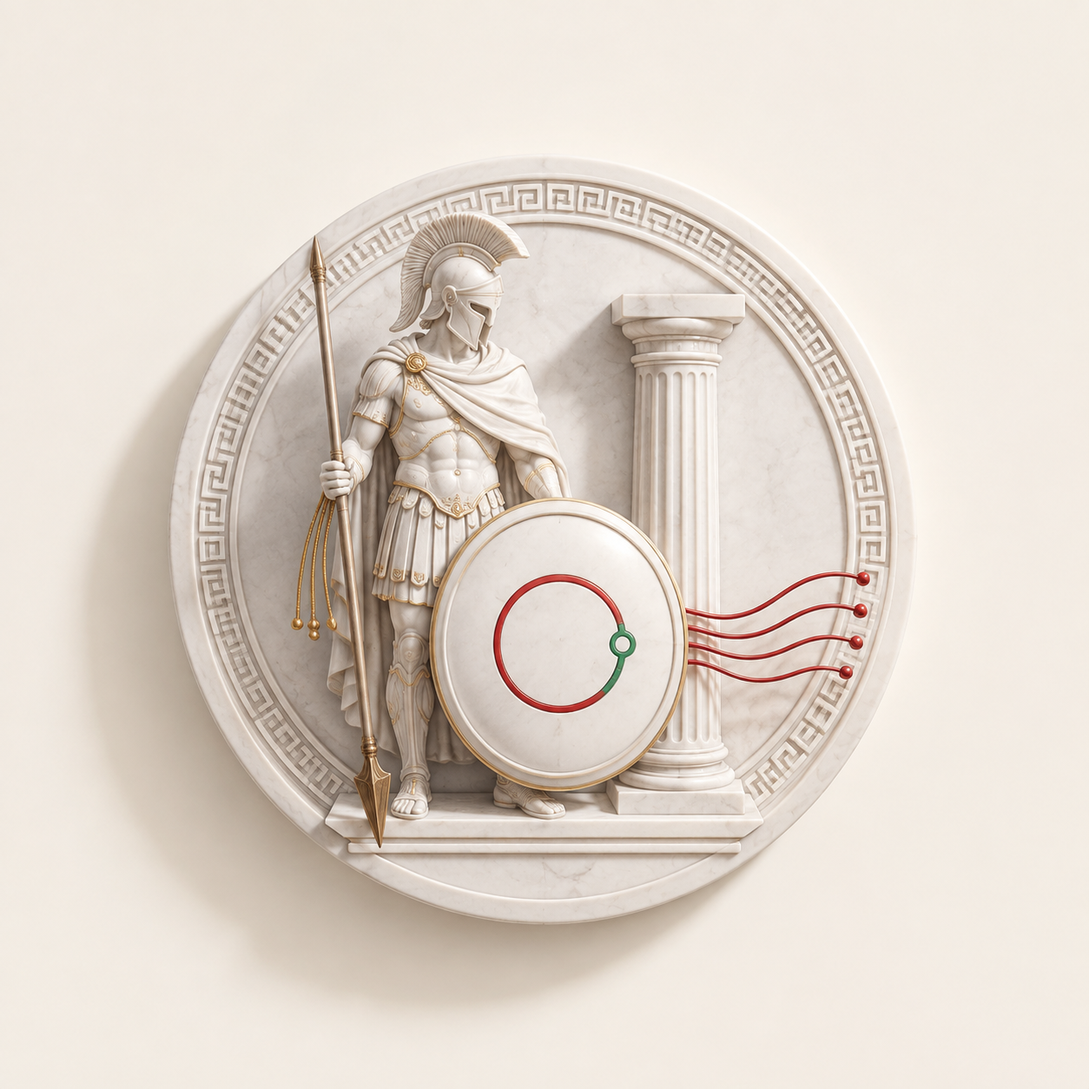
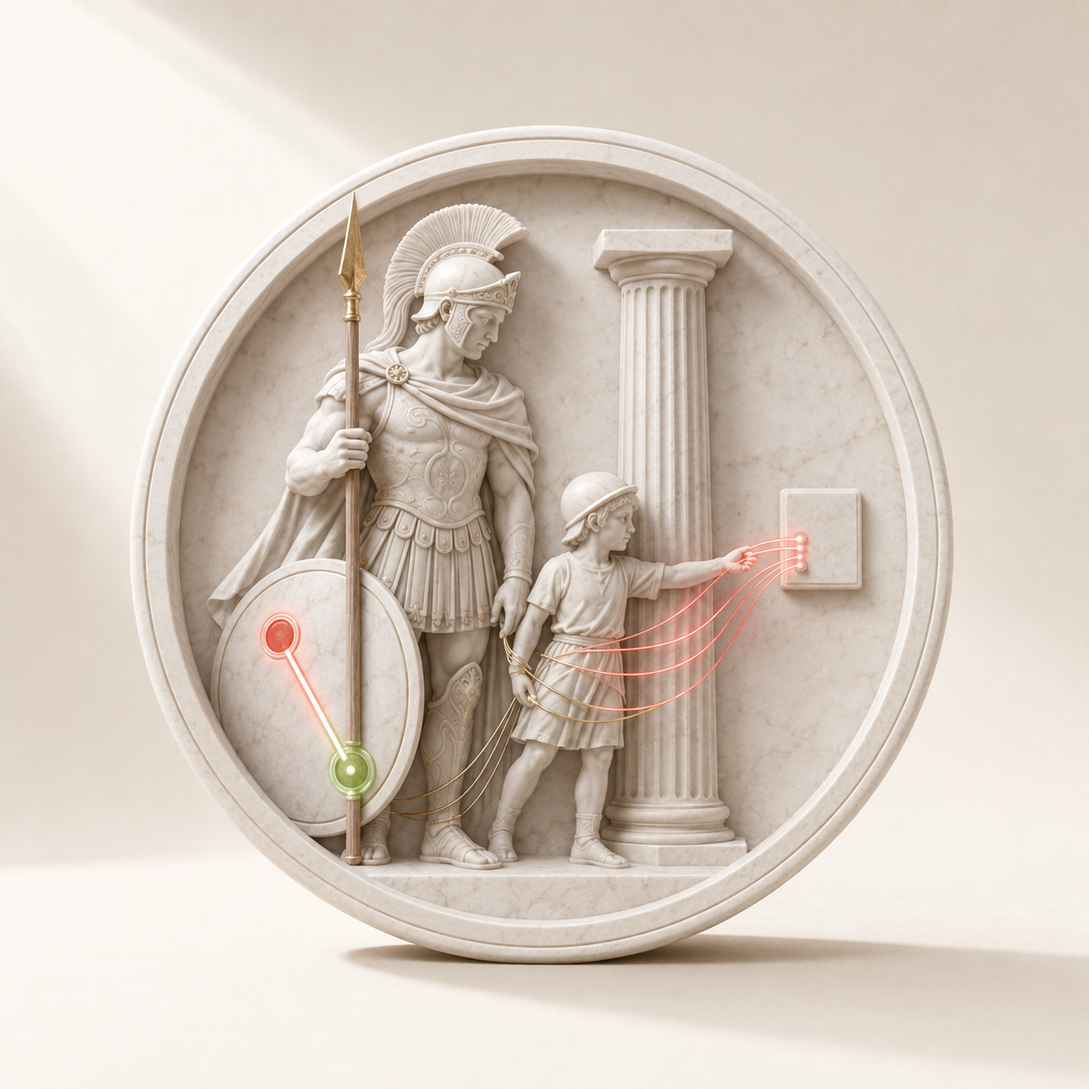
fix: Ares and his son Deimoz, upright spear, glowing threads, plain war-on-code framing

diff --git a/src/seat-adapter.ts b/src/seat-adapter.ts
@@ -21,8 +21,8 @@ export class SeatUnavailable extends Error {}
 
 /**
  * Собирает дескриптор сиденья Ареса из каталога arez. Бросает, если каталог не держит инварианты - на
- * сиденье Ареса не встаёт полу-собранный бог. deimos среди навыков, но НЕ как имя бога: сиденье - ares,
- * не deimos (LIM-03: deimos на сиденье Ареса ломает assertDaimonAllowed).
+ * сиденье Ареса не встаёт полу-собранный бог. deimoz среди навыков, но НЕ как имя бога: сиденье - ares,
+ * не deimoz (LIM-03: deimoz на сиденье Ареса ломает assertDaimonAllowed).
  */
 export function aresSeat(root: string): AresSeat {
   const cat = loadCatalog(root, false);

diff --git a/src/seat-adapter.test.ts b/src/seat-adapter.test.ts
@@ -15,12 +15,12 @@ test("aresSeat: дескриптор сиденья из каталога дом
   assert.equal(seat.minTier, "top");
   assert.deepEqual(seat.daimons, []); // LIM-01
   assert.equal(seat.skills.length, 6); // REQ-19
-  assert.ok(seat.skills.includes("deimos"));
+  assert.ok(seat.skills.includes("deimoz"));
 });
 
-test("сиденье - ares, а не deimos: имя бога не совпадает с навыком-оркестратором (LIM-03)", () => {
+test("сиденье - ares, а не deimoz: имя бога не совпадает с навыком-оркестратором (LIM-03)", () => {
   const seat = aresSeat(ROOT);
-  assert.notEqual(seat.god as string, "deimos");
+  assert.notEqual(seat.god as string, "deimoz");
 });
 
 test("полу-собранный каталог -> SeatUnavailable, на сиденье не встаёт", () => {

diff --git a/src/phase-a.ts b/src/phase-a.ts
@@ -55,7 +55,7 @@ export type Exploit = (hit: ReconHit) => Attempt;
 export type Prove = (attempt: Attempt) => Proof;
 
 /**
- * Оркестрирует сканеры в exit-код одной кампании. Сканеры идут В ПОРЯДКЕ КАТАЛОГА (deimos первым - он и есть
+ * Оркестрирует сканеры в exit-код одной кампании. Сканеры идут В ПОРЯДКЕ КАТАЛОГА (deimoz первым - он и есть
  * оркестратор). Каждый claimed-эксплойт ОБЯЗАН пройти observed-RED, иначе кампания краснеет:
  *   - незапускаемый claim -> отклонён как теория (LIM-09);
  *   - полый тест (зелёный до фикса) -> отклонён как театр (LIM-08);

diff --git a/src/catalog.ts b/src/catalog.ts
@@ -112,7 +112,7 @@ export function loadCatalog(root: string, playbookMustExist = true): CatalogResu
         }
       }
       // Деймос - оркестратор цепочки, без него шесть разрозненных сканеров, а не Деймос (REQ-28).
-      if (!names.has("deimos")) problems.push(`нет оркестратора deimos среди сканеров`);
+      if (!names.has("deimoz")) problems.push(`нет оркестратора deimoz среди сканеров`);
     }
   }
 

diff --git a/README.ru.md b/README.ru.md
@@ -6,7 +6,7 @@
 
 [![License](https://img.shields.io/badge/license-Apache--2.0-blue.svg)](LICENSE) [![Stars](https://img.shields.io/github/stars/zarubinvibe/arez?style=flat&color=C9A87A)](https://github.com/zarubinvibe/arez/stargazers) [![Status](https://img.shields.io/badge/status-working-brightgreen.svg)](https://github.com/zarubinvibe/arez) [![Olympuz](https://img.shields.io/badge/olympuz-family-B8D6EA.svg)](https://github.com/zarubinvibe/athena#olympuz-family)
 
-<p align="center"><img src="docs/assets/pantheon/hero.png" alt="Арес в белом мраморе у классической колонны: гребенчатый шлем, копье острием вниз в покое и круглый щит, на котором одна линия прошла путь от красного к зеленому. Чистые красные нити уносят доказанную находку наружу; приглушенно-золотые нити он держит близко в руке." width="100%"></p>
+<p align="center"><img src="docs/assets/pantheon/hero.png" alt="Арес в белом мраморе у классической колонны: гребенчатый шлем, копье вертикально острием в небо и круглый щит на руке. На щите одна линия идет от красного к зеленому. Чистые красные нити уносят доказанную находку наружу; приглушенно-золотые нити он держит близко." width="100%"></p>
 
 <!-- owner-welcome:start -->
 
@@ -37,7 +37,7 @@
 
 Arez это Арес, бог красной команды семьи Olympuz, вырезанный в отдельный инструмент. Он ведет настоящую security-кампанию против цели. Он размечает поверхность, запускает эксплойт и засчитывает находку только когда тест на глазах покраснел на дырявом коде и позеленел после фикса.
 
-Эта регрессия потом живет в твоем гейте навсегда. Это полный нативный Деймос, фазы A-D, с нулем внешних зависимостей. Живую цель он бьет только на 127.0.0.1, под своей песочницей, и наружу с машины не выходит.
+Эта регрессия потом живет в твоем гейте навсегда. Арес воюет с твоим кодом, чтобы найти его изъяны и починить их. Он воюет не один. Деймоз, его сын, ужас, что въезжал с ним в каждую битву, это движок: он ведет кампанию и сводит сканеры в один вердикт. Атакует, доказывает каждую дыру запуском эксплойта и запирает фикс регрессией. Ноль внешних зависимостей. Живую цель он бьет только на 127.0.0.1, под своей песочницей.
 
 ## Зачем это нужно
 
@@ -546,7 +546,7 @@ claude   # or: codex
 
 ## Ограничения
 
-Работает: полный нативный Деймос A-D, ядро анти-театра, doctor вендоренного ядра и сквозной приемочный сценарий проходят гейт. Впереди: живой seat-adapter при сборке роя Olympuz и переносимая песочница, чтобы живая цель поднималась не только на macOS.
+Работает: полный атакующий конвейер, ядро анти-театра, doctor вендоренного ядра и сквозной приемочный сценарий проходят гейт. Впереди: живой seat-adapter при сборке роя Olympuz и переносимая песочница, чтобы живая цель поднималась не только на macOS.
 
 - О
 - д
@@ -872,7 +872,7 @@ claude   # or: codex
 - ь
 - .
 
-`docs/MASTER-PLAN.md` секвенсит фазы Деймоса A-D по зависимости. `docs/ONBOARDING.md` проводит первую установку по шагам. `AGENTS.md` держит доктрину и инварианты. `SECURITY.md` держит модель безопасности. `tests/CORPUS.md` называет каждую пробу.
+`docs/MASTER-PLAN.md` секвенсит четыре стадии атаки по зависимости. `docs/ONBOARDING.md` проводит первую установку по шагам. `AGENTS.md` держит доктрину и инварианты. `SECURITY.md` держит модель безопасности. `tests/CORPUS.md` называет каждую пробу.
 
 ## Звезда и вклад
 

diff --git a/README.md b/README.md
@@ -6,7 +6,7 @@ A red team that proves the hole by running it and locks it with a red-to-green r
 
 [![License](https://img.shields.io/badge/license-Apache--2.0-blue.svg)](LICENSE) [![Stars](https://img.shields.io/github/stars/zarubinvibe/arez?style=flat&color=C9A87A)](https://github.com/zarubinvibe/arez/stargazers) [![Status](https://img.shields.io/badge/status-working-brightgreen.svg)](https://github.com/zarubinvibe/arez) [![Olympuz](https://img.shields.io/badge/olympuz-family-B8D6EA.svg)](https://github.com/zarubinvibe/athena#olympuz-family)
 
-<p align="center"><img src="docs/assets/pantheon/hero.png" alt="Ares in white marble beside the classical column: a crested helmet, a spear held point-down at rest, and a round shield whose face carries one line that went from red to green. Clean red threads carry the proven finding outward; muted-gold threads stay held close in his hand." width="100%"></p>
+<p align="center"><img src="docs/assets/pantheon/hero.png" alt="Ares in white marble beside the classical column: a crested helmet, an upright spear with its blade to the sky, and a round shield held on his arm. On the shield face one line runs from red to green. Clean red threads carry the proven finding outward; muted-gold threads stay held close." width="100%"></p>
 
 <!-- owner-welcome:start -->
 
@@ -37,7 +37,7 @@ A red team that proves the hole by running it and locks it with a red-to-green r
 
 Arez is Ares, the red-team god of the Olympuz family, cut out as a standalone tool. It runs a real security campaign against a target. It maps the surface, runs the exploit, and counts a finding only after a test was watched going red on the broken code and green after the fix.
 
-The regression then lives in your own gate for good. It is the full native Deimos, phases A through D, with zero external dependencies. It hits a live target only on 127.0.0.1, under its own sandbox, and never reaches off your machine.
+The regression then lives in your own gate for good. Ares wages war on your code to find its flaws and fix them. He does not fight alone. Deimoz, his son, the dread that rode into every battle beside him, is the engine that runs the campaign and chains its scanners into one verdict. It attacks, proves each hole by running the exploit, and locks the fix with a regression. Zero external dependencies. It hits a live target only on 127.0.0.1, under its own sandbox.
 
 ## Why It Helps
 
@@ -536,7 +536,7 @@ The gate runs the tests in a separate process the attacking agent cannot reach, 
 
 ## Limits
 
-Working: the full native Deimos A to D, the anti-theater core, the vendored-core doctor, and the end-to-end acceptance scenario all pass the gate. Ahead: the live seat-adapter when the Olympuz swarm is assembled, and a portable sandbox so the live target runs beyond macOS.
+Working: the full attack pipeline, the anti-theater core, the vendored-core doctor, and the end-to-end acceptance scenario all pass the gate. Ahead: the live seat-adapter when the Olympuz swarm is assembled, and a portable sandbox so the live target runs beyond macOS.
 
 - O
 - n
@@ -873,7 +873,7 @@ Working: the full native Deimos A to D, the anti-theater core, the vendored-core
 - y
 - .
 
-`docs/MASTER-PLAN.md` sequences the Deimos phases A to D by dependency. `docs/ONBOARDING.md` walks a first install step by step. `AGENTS.md` holds the doctrine and the invariants. `SECURITY.md` holds the safety model. `tests/CORPUS.md` names every probe.
+`docs/MASTER-PLAN.md` sequences the four attack stages by dependency. `docs/ONBOARDING.md` walks a first install step by step. `AGENTS.md` holds the doctrine and the invariants. `SECURITY.md` holds the safety model. `tests/CORPUS.md` names every probe.
 
 ## Star And Contribute
 

diff --git a/README.zh.md b/README.zh.md
@@ -6,7 +6,7 @@
 
 [![License](https://img.shields.io/badge/license-Apache--2.0-blue.svg)](LICENSE) [![Stars](https://img.shields.io/github/stars/zarubinvibe/arez?style=flat&color=C9A87A)](https://github.com/zarubinvibe/arez/stargazers) [![Status](https://img.shields.io/badge/status-working-brightgreen.svg)](https://github.com/zarubinvibe/arez) [![Olympuz](https://img.shields.io/badge/olympuz-family-B8D6EA.svg)](https://github.com/zarubinvibe/athena#olympuz-family)
 
-<p align="center"><img src="docs/assets/pantheon/hero.png" alt="白色大理石的阿瑞斯站在古典石柱旁：带盔冠的战盔，一支枪尖朝下静置的长矛，一面圆盾，盾面上有一道从红变绿的线。干净的红线把已证明的发现带向外面；柔和的金线被他握在手中。" width="100%"></p>
+<p align="center"><img src="docs/assets/pantheon/hero.png" alt="白色大理石的阿瑞斯站在古典石柱旁：带盔冠的战盔，一支竖直、枪尖朝天的长矛，一面握在臂上的圆盾。盾面上有一道从红到绿的线。干净的红线把已证明的发现带向外面；柔和的金线被他握在手边。" width="100%"></p>
 
 <!-- owner-welcome:start -->
 
@@ -37,7 +37,7 @@
 
 Arez 就是阿瑞斯，Olympuz 家族里的红队之神，被单独切出来做成一个工具。它对目标跑一场真正的安全战役。它先画出攻击面，再跑利用，只有当一个测试被亲眼看着在有漏洞的代码上变红、修好后变绿，才算一条发现。
 
-这条回归之后就永远住在你自己的门禁里。它是完整的原生 Deimos，A 到 D 四个阶段，零外部依赖。它只在 127.0.0.1、在自己的沙箱里打活靶，绝不伸出你的机器。
+这条回归之后就永远住在你自己的门禁里。阿瑞斯向你的代码开战，找出它的缺陷并把它们修好。他不是独自作战。Deimoz 是他的儿子，是随他冲进每一场战斗的恐惧，也是这里的引擎：他跑完整场战役，把各个扫描器汇成一个结论。他发起攻击，用跑通利用来证明每一个洞，再用一条回归把修复锁死。零外部依赖。它只在 127.0.0.1、在自己的沙箱里打活靶。
 
 ## 它解决什么问题
 
@@ -292,7 +292,7 @@ claude   # or: codex
 
 ## 局限
 
-已经在跑：完整的原生 Deimos A-D、反表演内核、被 vendored 内核的 doctor，以及端到端的验收场景，全都通过门禁。接下来：当 Olympuz 蜂群组装时接上实时的 seat-adapter，以及一个可移植的沙箱，让活靶不只在 macOS 上起得来。
+已经在跑：完整的攻击流水线、反表演内核、被 vendored 内核的 doctor，以及端到端的验收场景，全都通过门禁。接下来：当 Olympuz 蜂群组装时接上实时的 seat-adapter，以及一个可移植的沙箱，让活靶不只在 macOS 上起得来。
 
 - 一
 - 场
@@ -433,7 +433,7 @@ claude   # or: codex
 - 赖
 - 。
 
-`docs/MASTER-PLAN.md` 按依赖排出 Deimos 的 A-D 阶段。`docs/ONBOARDING.md` 一步步带你完成第一次安装。`AGENTS.md` 存放教条与不变量。`SECURITY.md` 存放安全模型。`tests/CORPUS.md` 点名每一条探针。
+`docs/MASTER-PLAN.md` 按依赖排出四个攻击阶段。`docs/ONBOARDING.md` 一步步带你完成第一次安装。`AGENTS.md` 存放教条与不变量。`SECURITY.md` 存放安全模型。`tests/CORPUS.md` 点名每一条探针。
 
 ## 点亮星标与参与
 

diff --git a/tests/CORPUS.md b/tests/CORPUS.md
@@ -10,12 +10,12 @@
 |---|---:|---|
 | `src/observed-red.test.ts` | 10 | анти-театр (фаза B): RED→GREEN засчитан, полый отвергнут, фикс-не-закрыл не доказательство; невалидный код и до-фиксный тест, убитый сигналом → infra-failed, не proven |
 | `src/doctor.test.ts` | 7 | дрейф ядра (REQ-41): зелёный на совпавших байтах, RED на подмене/пропаже/пустом пине/дубле; обязательный набор — ровно 5 примитивов |
-| `src/catalog.test.ts` | 8 | инварианты сиденья: claude/top, daimons:[] (LIM-01), 6 сканеров (REQ-19), deimos-оркестратор; null-JSON и плейбук вне санкц. каталога → RED |
+| `src/catalog.test.ts` | 8 | инварианты сиденья: claude/top, daimons:[] (LIM-01), 6 сканеров (REQ-19), deimoz-оркестратор; null-JSON и плейбук вне санкц. каталога → RED |
 | `src/phase-a.test.ts` | 7 | оркестрация recon→exploit→prove (REQ-28): 6 сканеров по порядку, proven→находка; теория/театр/открытая дыра и ПОДДЕЛАННЫЙ proof (вердикт из кодов) валят кампанию |
 | `src/phase-c.test.ts` | 12 | спин-ап цели (REQ-30): assertLoopback режет LAN/пустой бинд, containment реален только под наблюдением, targetPolicy loopback без host-egress, fail-closed spinUp, отказ squatter'у по pid, идемпотентный teardown, своя seatbelt на darwin |
 | `src/phase-d.test.ts` | 11 | scope-манифест (REQ-31): валиден только от координатора с корректными путями/портом, hit по объявленной цели, write под owns, traversal режется, недействительный манифест не даёт разрешений, неизвестный вид → deny, автономная цепочка, запрет спавна (MAX_DEPTH=1), D8-грант |
-| `src/seat-adapter.test.ts` | 3 | arez→сиденье Ареса (REQ-03): дескриптор держит инварианты, сиденье ares≠deimos (LIM-03), полу-собранный каталог не встаёт |
-| `src/acceptance.test.ts` | 1 | сквозной сценарий Деймоса A-D (REQ-08): все четыре фазы зелены в обе стороны на реальном каталоге |
+| `src/seat-adapter.test.ts` | 3 | arez→сиденье Ареса (REQ-03): дескриптор держит инварианты, сиденье ares≠deimoz (LIM-03), полу-собранный каталог не встаёт |
+| `src/acceptance.test.ts` | 1 | сквозной сценарий Деймоза A-D (REQ-08): все четыре фазы зелены в обе стороны на реальном каталоге |
 | **Итого** | **59** | |
 
 Пробы намеренно чистые: исполнение (раннер тестов, spawn цели, канарейка, цепочка) инъектируется, поэтому

diff --git a/docs/MASTER-PLAN.md b/docs/MASTER-PLAN.md
@@ -1,9 +1,9 @@
-# MASTER-PLAN — фазы Деймоса A-D по зависимости
+# MASTER-PLAN — четыре стадии атаки A-D по зависимости
 
 > REQ-04: этот файл секвенсит фазы A-D по зависимости. REQ-06: фаза A заводится первой волной.
 > REQ-11: все четыре фазы отгружаются в релизе, не в бэклоге.
 
-Деймос — нативный пентест-конвейер Ареса, стандалон. Каждая фаза опирается на предыдущую:
+Деймоз — сын Ареса, ужас, что въезжал с ним в каждую битву; здесь это нативный атакующий конвейер Ареса (recon-exploit-prove-lock), стандалон. Каждая фаза опирается на предыдущую:
 находку нельзя ни доказать, ни запереть, ни вести против живой цели без слоя под ней.
 
 ## Порядок и зависимости
@@ -31,7 +31,7 @@ D  scope-манифест + цепочка           (REQ-15/REQ-31 · src/phase
   Без runnable-плейбука recon→exploit→prove у Ареса нет захода вообще.
 - **B на A**: анти-театр судит РЕЗУЛЬТАТ пробы фазы A. Раньше A ему нечего судить.
 - **C на B**: спин-ап нужен только чтобы дать живому эксплойту цель; эксплойт без observed-RED —
-  это SARIF-самозаявка strix, ровно то, что Деймос заменяет (LIM-08).
+  это SARIF-самозаявка strix, ровно то, что Деймоз заменяет (LIM-08).
 - **D на C**: цепочка и scope имеют смысл против ПОДНЯТОЙ цели с границей; scope без цели — пустой
   манифест, цепочка без цели — нечего сцеплять.
 

diff --git a/docs/ONBOARDING.md b/docs/ONBOARDING.md
@@ -50,7 +50,7 @@ You need a Mac or a Linux machine and Node.js 22 or newer. That is the whole lis
    node bin/arez.ts gate
    ```
 
-   You see `gate: ✓ зелёный - фазы A-D, каталог и doctor сошлись`. This is the same gate a coordinator runs out of an attacking agent's reach: it runs the tests, the catalog, the doctor, and the end-to-end Deimos A–D scenario, and returns a single exit code.
+   You see `gate: ✓ зелёный - фазы A-D, каталог и doctor сошлись`. This is the same gate a coordinator runs out of an attacking agent's reach: it runs the tests, the catalog, the doctor, and the end-to-end acceptance scenario, and returns a single exit code.
 
 6. **Check the vendored core.**
 
@@ -66,11 +66,11 @@ You need a Mac or a Linux machine and Node.js 22 or newer. That is the whole lis
    node bin/arez.ts catalog
    ```
 
-   You see the Ares seat: provider `claude`, `daimons:[]`, and six scanners with `deimos` as the orchestrator. Deimos runs the others as a chain and folds their exit codes into one verdict.
+   You see the Ares seat: provider `claude`, `daimons:[]`, and six scanners with `deimoz` as the orchestrator. Deimoz runs the others as a chain and folds their exit codes into one verdict.
 
 8. **Understand what a finding is.** Open `tests/CORPUS.md` and `AGENTS.md`. The one rule to carry away: a finding counts only when a separate process watched the exploit test go red on the broken code and green after the fix. A test that was green before the fix is thrown out. Arez proves; it does not guess.
 
-9. **What next.** The full phase order is in `docs/MASTER-PLAN.md`. The safety model is in `SECURITY.md`. To keep your copy current later, run `/arez-update` in Claude Code, or `git pull` and the gate again.
+9. **What next.** The full stage order is in `docs/MASTER-PLAN.md`. The safety model is in `SECURITY.md`. To keep your copy current later, run `/arez-update` in Claude Code, or `git pull` and the gate again.
 
 ---
 
